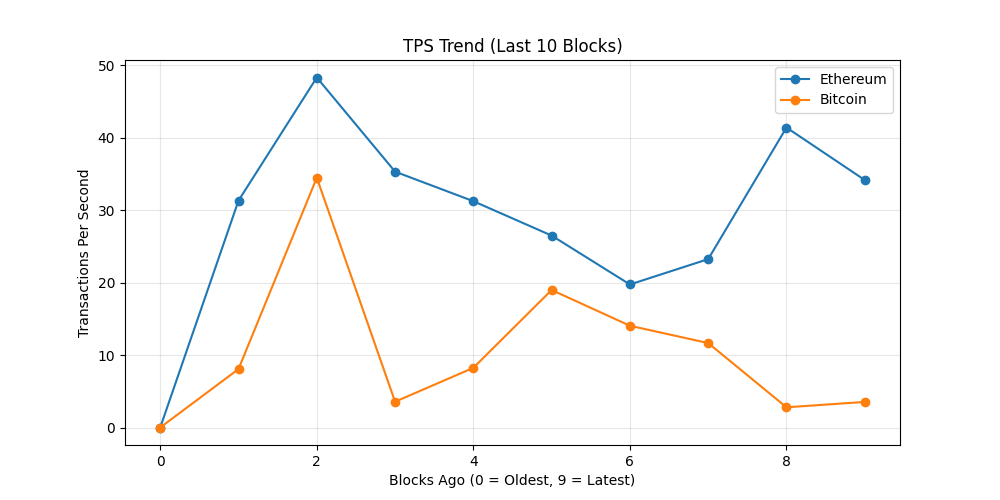
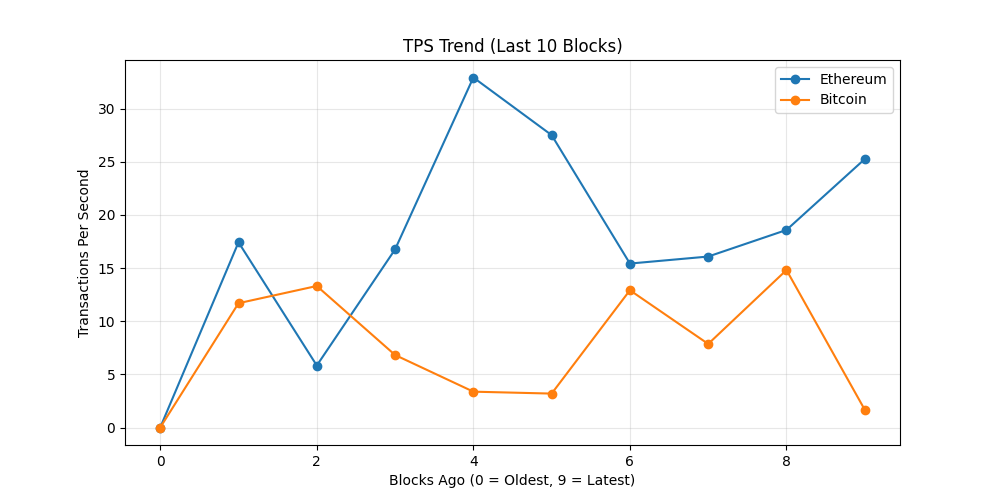
chore: update on-chain dashboard

diff --git a/README.md b/README.md
@@ -19,7 +19,7 @@ The README itself acts as the dashboard and is regenerated automatically on a 6 
 demonstrating a production-style, infrastructure-focused observability workflow rather
 than a traditional UI-driven approach.
 
-_Last updated: 2026-07-02 14:27 UTC_
+_Last updated: 2026-07-02 19:50 UTC_
 
 ## API Usage (GetBlock.io)
 - Calls used: **24**
@@ -27,8 +27,8 @@ _Last updated: 2026-07-02 14:27 UTC_
 ## Network Metrics
 | Chain | Block Height | TX Count | TPS (10 blk avg) | Block Util | Avg Fee |
 |------|-------------|----------|------------------|------------|---------|
-| Ethereum | 25445418 | 410 | 34.17 | 63.43% | 3.8 Gwei |
-| Bitcoin | 956365 | 4036 | 3.53 | 99.89% | N/A |
+| Ethereum | 25447027 | 303 | 25.25 | 77.96% | 0.2 Gwei |
+| Bitcoin | 956390 | 3947 | 1.67 | 99.79% | N/A |
 
 ## Visuals
 ### Transactions Trend
@@ -43,11 +43,11 @@ _Last updated: 2026-07-02 14:27 UTC_
 ## Whale Alerts (latest block)
 - Transaction hashes are truncated for readability.
 - Full hashes are available in `dashboards/metrics.json`
-- Bitcoin | 246.86 BTC | `a4117a3c3c4c…`
-- Bitcoin | 1509.04 BTC | `a47c0b755c5d…`
-- Bitcoin | 724.19 BTC | `7e1094994dd4…`
-- Bitcoin | 272.35 BTC | `1d6c756ec27e…`
-- Bitcoin | 178.86 BTC | `bab698fc669c…`
+- Bitcoin | 246.85 BTC | `d323ced031fe…`
+- Bitcoin | 181.15 BTC | `652a5ab1703e…`
+- Bitcoin | 181.13 BTC | `87614eaa1430…`
+- Bitcoin | 180.62 BTC | `e1c40a0c9d5c…`
+- Bitcoin | 1277.5 BTC | `6fde28496d31…`
 
 ## Run locally
 
